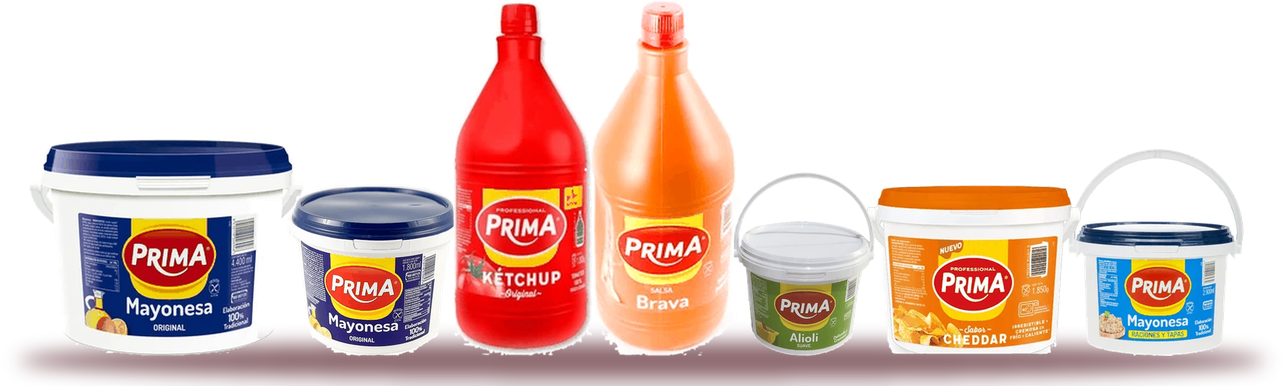
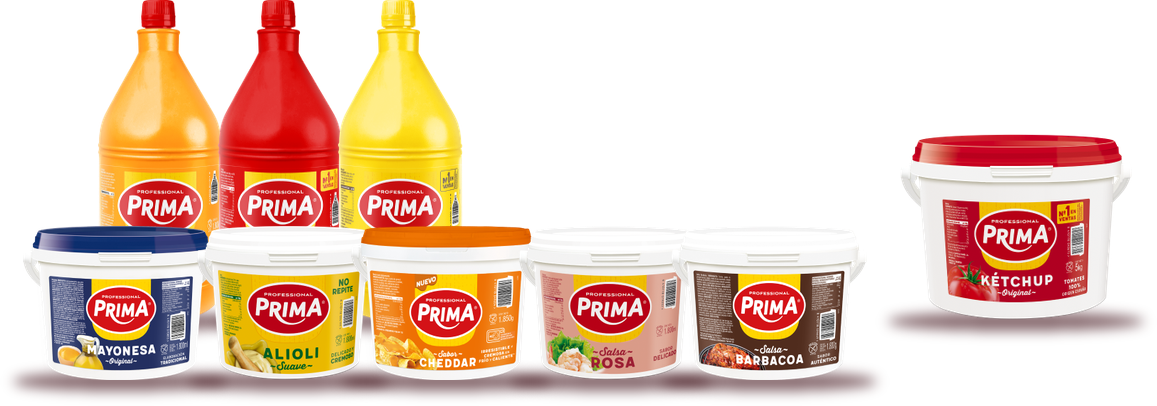
Despensa · Prima: bodegón de formatos de hostelería con fotos oficiales de prima.es (transparentes, proporcionadas y sin bordes blancos)
Claude-Session: https://claude.ai/code/session_01TfVuY2sTVvMwp4RqzYabW2

diff --git a/despensa.html b/despensa.html
@@ -9,7 +9,7 @@
   <link rel="preconnect" href="https://fonts.googleapis.com">
   <link rel="preconnect" href="https://fonts.gstatic.com" crossorigin>
   <link href="https://fonts.googleapis.com/css2?family=Raleway:ital,wght@0,300;0,500;0,600;1,300&family=Jost:wght@400;500;600;700&display=swap" rel="stylesheet">
-  <link rel="stylesheet" href="product-world.css?v=a4912ed3">
+  <link rel="stylesheet" href="product-world.css?v=5763678d">
   <link rel="stylesheet" href="despensa.css?v=2acd7fa3">
 <link rel="icon" type="image/png" href="assets/logo-tile.png">
 <link rel="apple-touch-icon" href="assets/apple-touch-icon.png">
@@ -71,11 +71,11 @@
   <footer class="pw-footer"><span>Distribuciones Valentín · Medina del Campo</span><a href="https://www.facebook.com/share/1LfPCX2kSw/" target="_blank" rel="noopener">Facebook</a><a href="https://www.instagram.com/distrvalentinmartin/" target="_blank" rel="noopener">Instagram</a><a href="aviso-legal.html">Aviso legal</a><a href="privacidad.html">Política de privacidad</a><a href="index.html#inicio">Volver a inicio ↑</a></footer>
   <script src="assets/vendor/gsap.min.js?v=2d26f4c0" defer></script>
   <script src="assets/vendor/ScrollTrigger.min.js?v=489bcf6d" defer></script>
-  <script src="product-world.js?v=8f4e180e" defer></script>
+  <script src="product-world.js?v=10aa01fa" defer></script>
   <script src="precios.js?v=e91f9a24" defer></script>
   <script src="helios-products.js?v=5c4a8c60" defer></script>
   <script src="villacampo-products.js?v=f27cd79b" defer></script>
-  <script src="despensa-products.js?v=794022b1" defer></script>
+  <script src="despensa-products.js?v=02ea928b" defer></script>
 <script src="site-header.js?v=9aa16ac1" defer></script>
 <script src="cookies.js?v=a255d7c1" defer></script>
 <script src="estadisticas.js?v=30c3e111" defer></script>

diff --git a/product-world.js b/product-world.js
@@ -27,7 +27,7 @@
         <div class="pw-sticky"><div class="pw-scene-inner">${label(item,index)}
           <div class="pw-a-copy"><p class="pw-overline">${esc(item.eyebrow)}</p><h2 id="pw-scene-${index}">${esc(item.title)}</h2><p class="pw-description">${esc(item.description)}</p>${price(item.family,item.product)}${button(item)}</div>
           <div class="pw-a-art">${item.logo?`<img class="pw-a-logo" src="${esc(item.logo.image)}" alt="${esc(item.logo.alt)}" width="${Number(item.logo.width)}" height="${Number(item.logo.height)}">`:''}<span class="pw-a-ring" aria-hidden="true"></span><span class="pw-a-backword" aria-hidden="true">${esc(item.backword || item.family)}</span>${img(item.product,'pw-a-product')}<p class="pw-product-note">${esc(item.product.name)}</p></div>
-          ${item.bodegon?`<figure class="pw-a-bodegon"><img src="${esc(item.bodegon.image)}" alt="${esc(item.bodegon.alt)}" width="${Number(item.bodegon.width)||1284}" height="${Number(item.bodegon.height)||386}" loading="lazy" decoding="async"></figure>`:''}
+          ${item.bodegon?`<figure class="pw-a-bodegon"><img src="${esc(item.bodegon.image)}" alt="${esc(item.bodegon.alt)}" width="${Number(item.bodegon.width)||1284}" height="${Number(item.bodegon.height)||406}" loading="lazy" decoding="async"></figure>`:''}
           ${item.showcase?`<ul class="pw-a-showcase" aria-label="Formatos industriales">${item.showcase.map(f=>`<li><img src="${esc(f.image)}" alt="${esc(f.alt)}" title="${esc(f.alt)}" width="320" height="320" loading="lazy" decoding="async"></li>`).join('')}</ul>`:''}
           <p class="pw-scene-bottom">${esc(item.bottom || '')}</p>
         </div></div></section>`;

diff --git a/congelados.html b/congelados.html
@@ -9,7 +9,7 @@
   <link rel="preconnect" href="https://fonts.googleapis.com">
   <link rel="preconnect" href="https://fonts.gstatic.com" crossorigin>
   <link href="https://fonts.googleapis.com/css2?family=Raleway:ital,wght@0,300;0,500;0,600;1,300&family=Jost:wght@400;500;600;700&display=swap" rel="stylesheet">
-  <link rel="stylesheet" href="product-world.css?v=a4912ed3">
+  <link rel="stylesheet" href="product-world.css?v=5763678d">
   <link rel="stylesheet" href="congelados.css?v=eb4d5c52">
 <link rel="icon" type="image/png" href="assets/logo-tile.png">
 <link rel="apple-touch-icon" href="assets/apple-touch-icon.png">
@@ -71,7 +71,7 @@
   <footer class="pw-footer"><span>Distribuciones Valentín · Medina del Campo</span><a href="https://www.facebook.com/share/1LfPCX2kSw/" target="_blank" rel="noopener">Facebook</a><a href="https://www.instagram.com/distrvalentinmartin/" target="_blank" rel="noopener">Instagram</a><a href="aviso-legal.html">Aviso legal</a><a href="privacidad.html">Política de privacidad</a><a href="index.html#inicio">Volver a inicio ↑</a></footer>
   <script src="assets/vendor/gsap.min.js?v=2d26f4c0" defer></script>
   <script src="assets/vendor/ScrollTrigger.min.js?v=489bcf6d" defer></script>
-  <script src="product-world.js?v=8f4e180e" defer></script>
+  <script src="product-world.js?v=10aa01fa" defer></script>
   <script src="precios.js?v=e91f9a24" defer></script>
   <script src="congelados-products.js?v=6f810fe8" defer></script>
 <script src="site-header.js?v=9aa16ac1" defer></script>

diff --git a/pascual.html b/pascual.html
@@ -9,7 +9,7 @@
   <link rel="preconnect" href="https://fonts.googleapis.com">
   <link rel="preconnect" href="https://fonts.gstatic.com" crossorigin>
   <link href="https://fonts.googleapis.com/css2?family=Raleway:ital,wght@0,300;0,500;0,600;1,300&family=Jost:wght@400;500;600;700&display=swap" rel="stylesheet">
-  <link rel="stylesheet" href="product-world.css?v=a4912ed3">
+  <link rel="stylesheet" href="product-world.css?v=5763678d">
   <link rel="stylesheet" href="pascual.css?v=dea6a329">
 <link rel="icon" type="image/png" href="assets/logo-tile.png">
 <link rel="apple-touch-icon" href="assets/apple-touch-icon.png">
@@ -69,7 +69,7 @@
   <footer class="pw-footer"><span>Distribuciones Valentín · Medina del Campo</span><a href="https://www.facebook.com/share/1LfPCX2kSw/" target="_blank" rel="noopener">Facebook</a><a href="https://www.instagram.com/distrvalentinmartin/" target="_blank" rel="noopener">Instagram</a><a href="aviso-legal.html">Aviso legal</a><a href="privacidad.html">Política de privacidad</a><a href="index.html#inicio">Volver a inicio ↑</a></footer>
   <script src="assets/vendor/gsap.min.js?v=2d26f4c0" defer></script>
   <script src="assets/vendor/ScrollTrigger.min.js?v=489bcf6d" defer></script>
-  <script src="product-world.js?v=8f4e180e" defer></script>
+  <script src="product-world.js?v=10aa01fa" defer></script>
   <script src="precios.js?v=e91f9a24" defer></script>
   <script src="pascual-products.js?v=6d8cd72b" defer></script>
 <script src="site-header.js?v=9aa16ac1" defer></script>

diff --git a/vinos.html b/vinos.html
@@ -9,7 +9,7 @@
   <link rel="preconnect" href="https://fonts.googleapis.com">
   <link rel="preconnect" href="https://fonts.gstatic.com" crossorigin>
   <link href="https://fonts.googleapis.com/css2?family=Raleway:ital,wght@0,300;0,500;0,600;1,300&family=Jost:wght@400;500;600;700&display=swap" rel="stylesheet">
-  <link rel="stylesheet" href="product-world.css?v=a4912ed3">
+  <link rel="stylesheet" href="product-world.css?v=5763678d">
   <link rel="stylesheet" href="vinos.css?v=a1755790">
 <link rel="icon" type="image/png" href="assets/logo-tile.png">
 <link rel="apple-touch-icon" href="assets/apple-touch-icon.png">
@@ -71,7 +71,7 @@
   <footer class="pw-footer"><span>Distribuciones Valentín · Medina del Campo</span><a href="https://www.facebook.com/share/1LfPCX2kSw/" target="_blank" rel="noopener">Facebook</a><a href="https://www.instagram.com/distrvalentinmartin/" target="_blank" rel="noopener">Instagram</a><a href="aviso-legal.html">Aviso legal</a><a href="privacidad.html">Política de privacidad</a><a href="index.html#inicio">Volver a inicio ↑</a></footer>
   <script src="assets/vendor/gsap.min.js?v=2d26f4c0" defer></script>
   <script src="assets/vendor/ScrollTrigger.min.js?v=489bcf6d" defer></script>
-  <script src="product-world.js?v=8f4e180e" defer></script>
+  <script src="product-world.js?v=10aa01fa" defer></script>
   <script src="precios.js?v=e91f9a24" defer></script>
   <script src="vinos-products.js?v=ef5b626b" defer></script>
 <script src="site-header.js?v=9aa16ac1" defer></script>

diff --git a/agua.html b/agua.html
@@ -9,7 +9,7 @@
   <link rel="preconnect" href="https://fonts.googleapis.com">
   <link rel="preconnect" href="https://fonts.gstatic.com" crossorigin>
   <link href="https://fonts.googleapis.com/css2?family=Raleway:ital,wght@0,300;0,500;0,600;1,300&family=Jost:wght@400;500;600;700&display=swap" rel="stylesheet">
-  <link rel="stylesheet" href="product-world.css?v=a4912ed3">
+  <link rel="stylesheet" href="product-world.css?v=5763678d">
   <link rel="stylesheet" href="agua.css?v=734a2ac2">
 <link rel="icon" type="image/png" href="assets/logo-tile.png">
 <link rel="apple-touch-icon" href="assets/apple-touch-icon.png">
@@ -72,7 +72,7 @@
   <footer class="pw-footer"><span>Distribuciones Valentín · Medina del Campo</span><a href="https://www.facebook.com/share/1LfPCX2kSw/" target="_blank" rel="noopener">Facebook</a><a href="https://www.instagram.com/distrvalentinmartin/" target="_blank" rel="noopener">Instagram</a><a href="aviso-legal.html">Aviso legal</a><a href="privacidad.html">Política de privacidad</a><a href="index.html#inicio">Volver a inicio ↑</a></footer>
   <script src="assets/vendor/gsap.min.js?v=2d26f4c0" defer></script>
   <script src="assets/vendor/ScrollTrigger.min.js?v=489bcf6d" defer></script>
-  <script src="product-world.js?v=8f4e180e" defer></script>
+  <script src="product-world.js?v=10aa01fa" defer></script>
   <script src="precios.js?v=e91f9a24" defer></script>
   <script src="agua-products.js?v=1cda63ef" defer></script>
 <script src="site-header.js?v=9aa16ac1" defer></script>

diff --git a/despensa-products.js b/despensa-products.js
@@ -45,7 +45,7 @@ window.ProductWorld.init({
       template: 'hero', family: 'Prima', color: '#cf0122', ink: '#ffffff', dark: true,
       eyebrow: 'Salsas Prima', title: 'Salseo del bueno.',
       description: 'Una amplia variedad de deliciosas salsas elaboradas de forma responsable con tu salud, con ingredientes de aquí y la experiencia de más de 40 años a tu lado, acompañando tus platos y trabajando para mejorar cada día. Formatos Prima pensados para hostelería, con el sabor de siempre y tomate 100 % origen España.',
-      bodegon: {image:'assets/despensa/prima/prima-bodegon-hosteleria.png', width:1284, height:386, alt:'Formatos de hostelería de Prima: mayonesa de 4,4 kg y de 1,8 kg, kétchup, salsa brava, alioli, cheddar y mayonesa de 2,9 kg'},
+      bodegon: {image:'assets/despensa/prima/prima-bodegon-hosteleria.png', width:1002, height:406, alt:'Formatos de hostelería de Prima: salsa brava, kétchup y mostaza de 1,8 kg, kétchup de 5 kg, y cubos de 1,8 kg de mayonesa, alioli, cheddar, salsa rosa y barbacoa'},
       bottom: '05 — Gama de salsas',
       logo: {image:D+'prima-logo.png', width:430, height:280, alt:'Prima'},
       product: {name:'Gama de salsas Prima', image:D+'prima-gama.png', width:2694, height:690, wide:true, alt:'Gama de salsas Prima: mayonesas, kétchup, mostazas y otras salsas'}

diff --git a/menaje.html b/menaje.html
@@ -9,7 +9,7 @@
   <link rel="preconnect" href="https://fonts.googleapis.com">
   <link rel="preconnect" href="https://fonts.gstatic.com" crossorigin>
   <link href="https://fonts.googleapis.com/css2?family=Raleway:ital,wght@0,300;0,500;0,600;1,300&family=Jost:wght@400;500;600;700&display=swap" rel="stylesheet">
-  <link rel="stylesheet" href="product-world.css?v=a4912ed3">
+  <link rel="stylesheet" href="product-world.css?v=5763678d">
   <link rel="stylesheet" href="menaje.css?v=e375ff0e">
 <link rel="icon" type="image/png" href="assets/logo-tile.png">
 <link rel="apple-touch-icon" href="assets/apple-touch-icon.png">
@@ -138,7 +138,7 @@
   </footer>
   <script src="assets/vendor/gsap.min.js?v=2d26f4c0" defer></script>
   <script src="assets/vendor/ScrollTrigger.min.js?v=489bcf6d" defer></script>
-  <script src="product-world.js?v=8f4e180e" defer></script>
+  <script src="product-world.js?v=10aa01fa" defer></script>
   <script src="menaje-articulos.js?v=ee2bc76a" defer></script>
   <script src="menaje-listado.js?v=e0274f5a" defer></script>
   <script src="menaje-products.js?v=057b73a9" defer></script>

diff --git a/product-world.css b/product-world.css
@@ -371,5 +371,5 @@
 /* Bodegón de formatos de hostelería (Prima): todos los envases juntos, como la gama de 400 g */
 .pw-a-bodegon{margin:22px 0 0;padding:0}
 .pw-a-bodegon img{display:block;width:100%;height:auto;filter:drop-shadow(0 10px 12px rgba(60,0,10,.30))}
-@media(min-width:1000px){.pw-a.is-wide .pw-a-bodegon{position:absolute;z-index:3;left:calc(50% - 8vw);top:clamp(170px,26vh,270px);width:min(560px,38vw);margin:0}}
+@media(min-width:1000px){.pw-a.is-wide .pw-a-bodegon{position:absolute;z-index:3;left:calc(50% - 8vw);top:clamp(180px,27vh,280px);width:min(520px,37vw);margin:0}}
 @media(max-width:999px){.pw-a.is-wide .pw-a-bodegon{order:2;margin:10px 0 18px}}

diff --git a/novedades.html b/novedades.html
@@ -9,7 +9,7 @@
   <link rel="preconnect" href="https://fonts.googleapis.com">
   <link rel="preconnect" href="https://fonts.gstatic.com" crossorigin>
   <link href="https://fonts.googleapis.com/css2?family=Raleway:ital,wght@0,300;0,500;0,600;1,300&family=Jost:wght@400;500;600;700&display=swap" rel="stylesheet">
-  <link rel="stylesheet" href="product-world.css?v=a4912ed3">
+  <link rel="stylesheet" href="product-world.css?v=5763678d">
   <link rel="stylesheet" href="novedades.css?v=526b22ea">
 <link rel="icon" type="image/png" href="assets/logo-tile.png">
 <link rel="apple-touch-icon" href="assets/apple-touch-icon.png">

diff --git a/historia.html b/historia.html
@@ -9,7 +9,7 @@
   <link rel="preconnect" href="https://fonts.googleapis.com">
   <link rel="preconnect" href="https://fonts.gstatic.com" crossorigin>
   <link href="https://fonts.googleapis.com/css2?family=Raleway:ital,wght@0,300;0,500;0,600;1,300&family=Jost:wght@400;500;600;700&display=swap" rel="stylesheet">
-  <link rel="stylesheet" href="product-world.css?v=a4912ed3">
+  <link rel="stylesheet" href="product-world.css?v=5763678d">
   <link rel="stylesheet" href="historia.css?v=19afb984">
 <link rel="icon" type="image/png" href="assets/logo-tile.png">
 <link rel="apple-touch-icon" href="assets/apple-touch-icon.png">

diff --git a/aviso-legal.html b/aviso-legal.html
@@ -9,7 +9,7 @@
   <link rel="preconnect" href="https://fonts.googleapis.com">
   <link rel="preconnect" href="https://fonts.gstatic.com" crossorigin>
   <link href="https://fonts.googleapis.com/css2?family=Raleway:ital,wght@0,300;0,500;0,600;1,300&family=Jost:wght@400;500;600;700&display=swap" rel="stylesheet">
-  <link rel="stylesheet" href="product-world.css?v=a4912ed3">
+  <link rel="stylesheet" href="product-world.css?v=5763678d">
   <link rel="stylesheet" href="legal.css?v=bf08cf82">
 <link rel="icon" type="image/png" href="assets/logo-tile.png">
 <link rel="apple-touch-icon" href="assets/apple-touch-icon.png">
